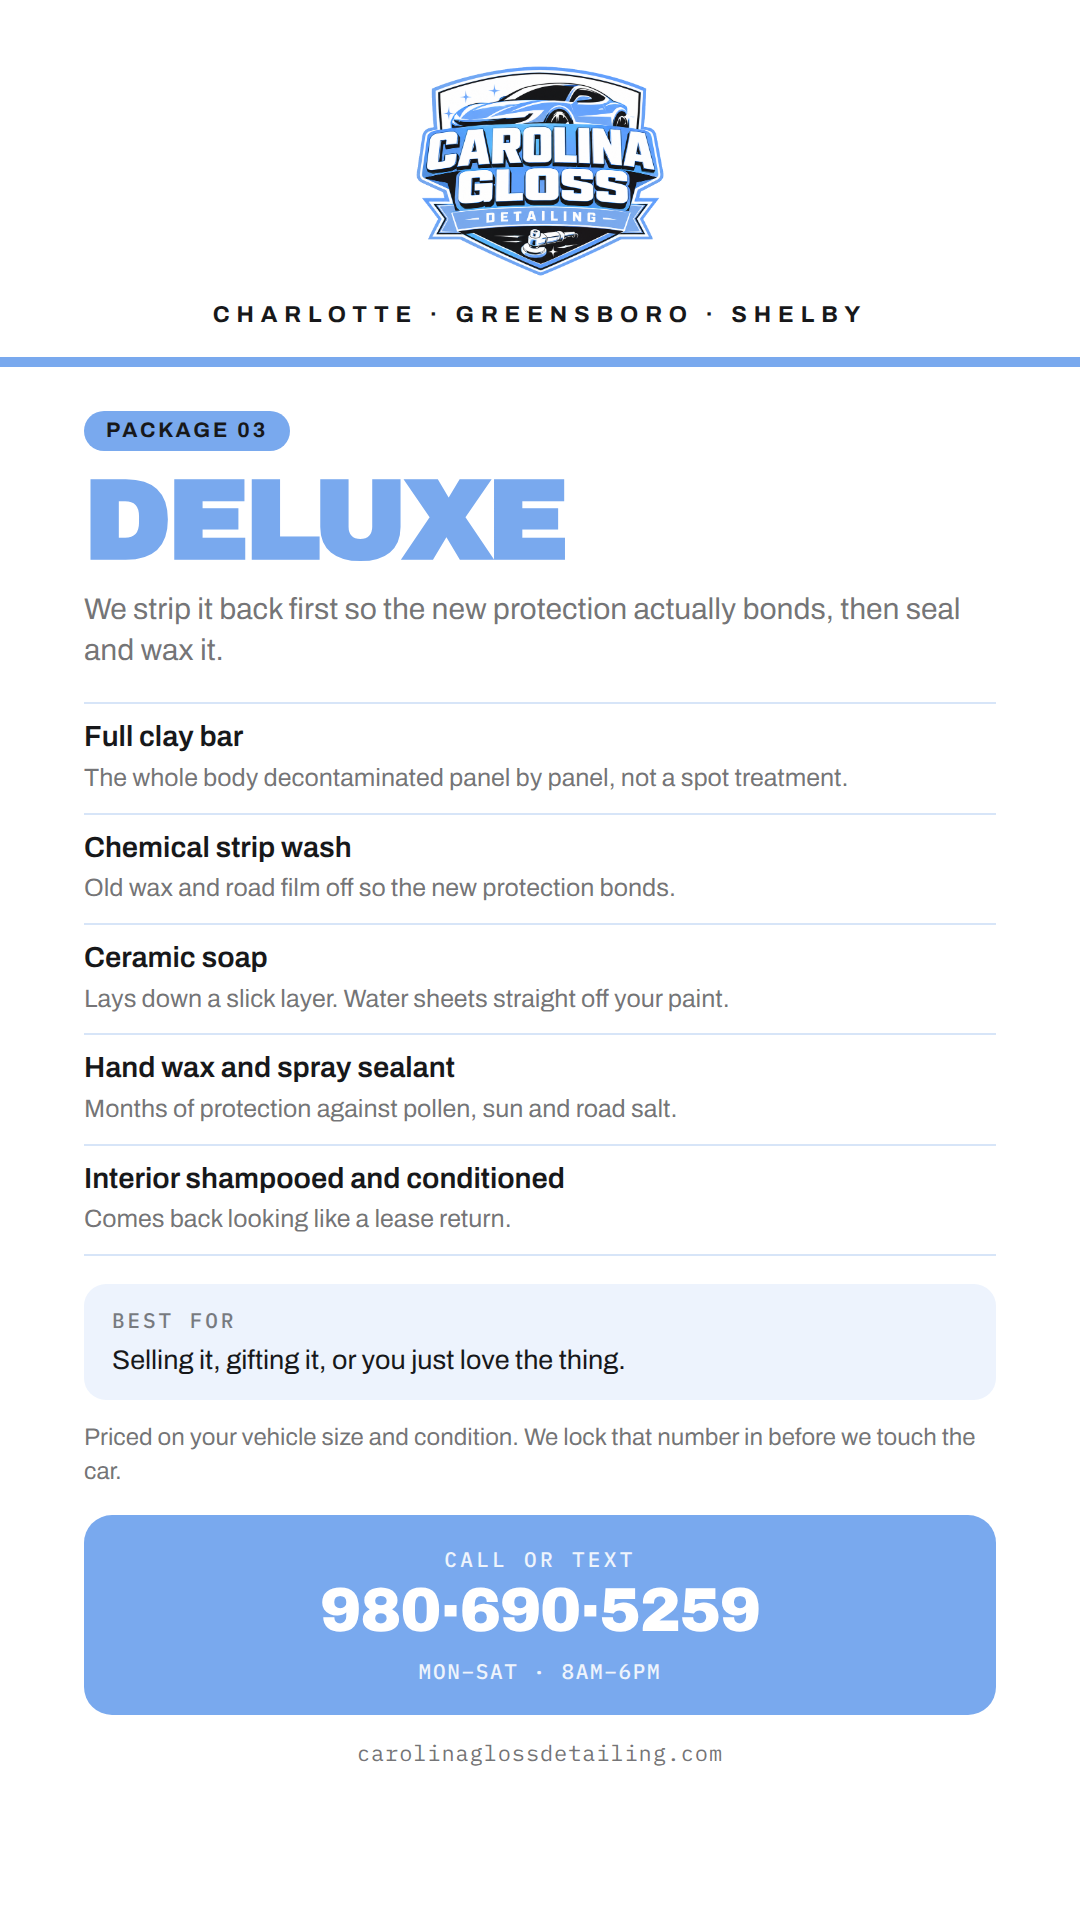
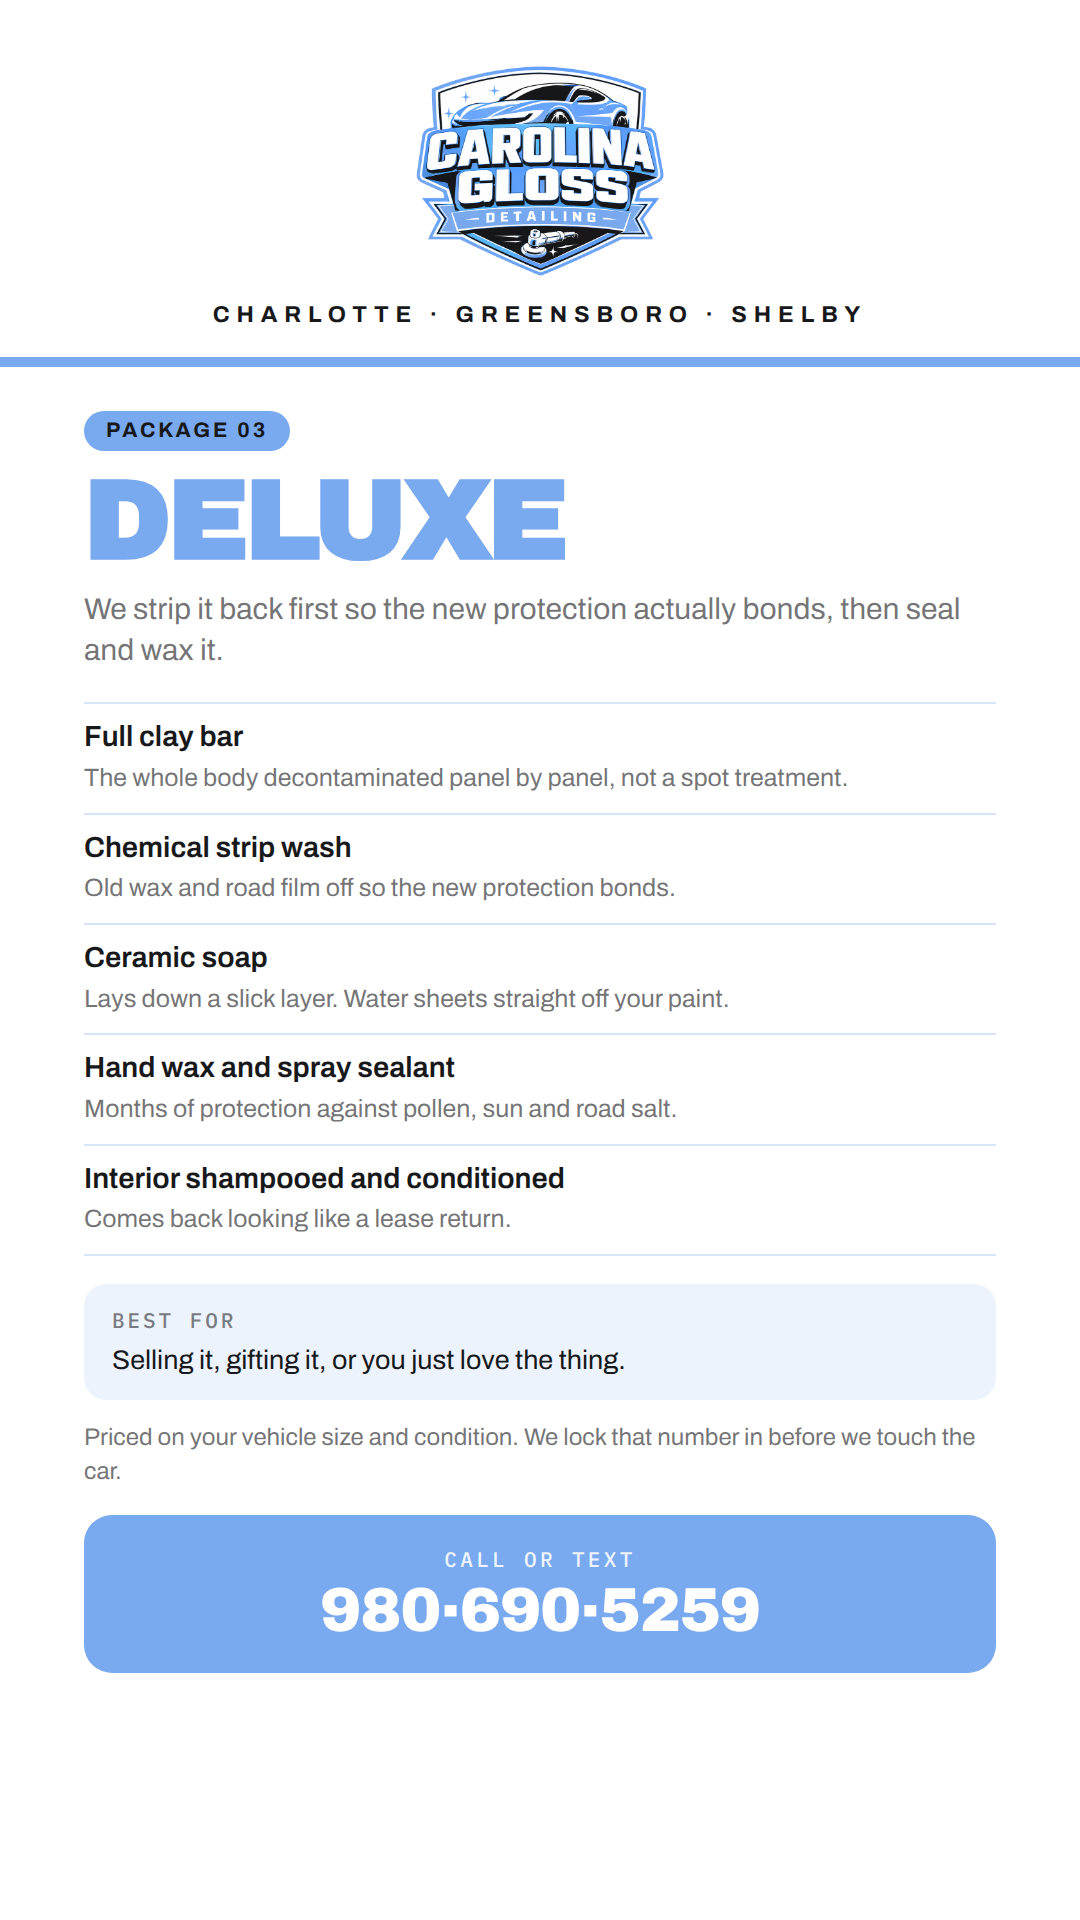
Strip the hours and website lines from the CTA
Availability shifts, so baking Mon-Sat 8am-6pm into the image dates it.
The CTA is now just CALL OR TEXT and the number.

Claude-Session: https://claude.ai/code/session_016b3V5EjCTmSZMCSHy3XdSF

Changed region(s): [[0.0611, 0.8438, 0.9167, 0.9375]]

diff --git a/design/story-highlights/Story Highlights - Services.dc.html b/design/story-highlights/Story Highlights - Services.dc.html
@@ -45,9 +45,7 @@
         <div style="margin-top:26px;background:#79A9EE;border-radius:28px;padding:30px 28px;display:flex;flex-direction:column;align-items:center;text-align:center;">
           <div style="font:500 21px 'IBM Plex Mono',monospace;letter-spacing:0.16em;color:#FFFFFF;opacity:0.88;">CALL OR TEXT</div>
           <div style="margin-top:8px;font-family:'Archivo Black',Helvetica,sans-serif;font-size:62px;line-height:1;letter-spacing:-0.02em;color:#FFFFFF;white-space:nowrap;">980·690·5259</div>
-          <div style="margin-top:14px;font:500 21px 'IBM Plex Mono',monospace;letter-spacing:0.08em;color:#FFFFFF;opacity:0.88;">MON–SAT · 8AM–6PM</div>
         </div>
-        <div style="margin-top:24px;text-align:center;font:400 22px 'IBM Plex Mono',monospace;letter-spacing:0.04em;color:rgba(23,24,26,0.62);">carolinaglossdetailing.com</div>
       </div>
     </section>
   </div>
@@ -77,9 +75,7 @@
         <div style="margin-top:26px;background:#79A9EE;border-radius:28px;padding:30px 28px;display:flex;flex-direction:column;align-items:center;text-align:center;">
           <div style="font:500 21px 'IBM Plex Mono',monospace;letter-spacing:0.16em;color:#FFFFFF;opacity:0.88;">CALL OR TEXT</div>
           <div style="margin-top:8px;font-family:'Archivo Black',Helvetica,sans-serif;font-size:62px;line-height:1;letter-spacing:-0.02em;color:#FFFFFF;white-space:nowrap;">980·690·5259</div>
-          <div style="margin-top:14px;font:500 21px 'IBM Plex Mono',monospace;letter-spacing:0.08em;color:#FFFFFF;opacity:0.88;">MON–SAT · 8AM–6PM</div>
         </div>
-        <div style="margin-top:24px;text-align:center;font:400 22px 'IBM Plex Mono',monospace;letter-spacing:0.04em;color:rgba(23,24,26,0.62);">carolinaglossdetailing.com</div>
       </div>
     </section>
   </div>
@@ -109,9 +105,7 @@
         <div style="margin-top:26px;background:#79A9EE;border-radius:28px;padding:30px 28px;display:flex;flex-direction:column;align-items:center;text-align:center;">
           <div style="font:500 21px 'IBM Plex Mono',monospace;letter-spacing:0.16em;color:#FFFFFF;opacity:0.88;">CALL OR TEXT</div>
           <div style="margin-top:8px;font-family:'Archivo Black',Helvetica,sans-serif;font-size:62px;line-height:1;letter-spacing:-0.02em;color:#FFFFFF;white-space:nowrap;">980·690·5259</div>
-          <div style="margin-top:14px;font:500 21px 'IBM Plex Mono',monospace;letter-spacing:0.08em;color:#FFFFFF;opacity:0.88;">MON–SAT · 8AM–6PM</div>
         </div>
-        <div style="margin-top:24px;text-align:center;font:400 22px 'IBM Plex Mono',monospace;letter-spacing:0.04em;color:rgba(23,24,26,0.62);">carolinaglossdetailing.com</div>
       </div>
     </section>
   </div>

diff --git a/design/story-highlights/build.py b/design/story-highlights/build.py
@@ -23,7 +23,7 @@ TINT = "#EDF3FD"         # BLUE washed into white, for cards
 RULE = "#D7E5F8"         # BLUE washed into white, for dividers
 MUTED = "rgba(23,24,26,0.62)"   # the same black, stepped back
 
-PHONE, HOURS = "980\u00b7690\u00b75259", "MON\u2013SAT \u00b7 8AM\u20136PM"
+PHONE = "980\u00b7690\u00b75259"
 CITIES = "CHARLOTTE \u00b7 GREENSBORO \u00b7 SHELBY"
 PRICE_LINE = ("Priced on your vehicle size and condition. "
               "We lock that number in before we touch the car.")
@@ -129,10 +129,6 @@ h1{{margin:20px 0 0;font-family:'Archivo Black',Helvetica,sans-serif;font-size:1
  color:#FFFFFF;opacity:0.88;}}
 .cta .num{{margin-top:8px;font-family:'Archivo Black',Helvetica,sans-serif;font-size:62px;
  line-height:1;letter-spacing:-0.02em;color:#FFFFFF;white-space:nowrap;}}
-.cta .hrs{{margin-top:14px;font:500 21px 'IBM Plex Mono',monospace;
- letter-spacing:0.08em;color:#FFFFFF;opacity:0.88;}}
-.site{{margin-top:24px;text-align:center;font:400 22px 'IBM Plex Mono',monospace;
- letter-spacing:0.04em;color:{muted};}}
 </style></head><body><div class="frame">
 <div class="head"><img src="{logo}" alt="Carolina Gloss Detailing">
 <div class="cities">{cities}</div></div>
@@ -144,14 +140,12 @@ h1{{margin:20px 0 0;font-family:'Archivo Black',Helvetica,sans-serif;font-size:1
 <div class="rows">{rows}</div>
 <div class="best"><div class="lbl">BEST FOR</div><div class="txt">{best}</div></div>
 <p class="price">{price}</p>
-<div class="cta"><div class="lbl">CALL OR TEXT</div><div class="num">{phone}</div>
-<div class="hrs">{hours}</div></div>
-<div class="site">carolinaglossdetailing.com</div>
+<div class="cta"><div class="lbl">CALL OR TEXT</div><div class="num">{phone}</div></div>
 </div></div></body></html>""".format(
         faces=faces, ink=INK, blue=BLUE, tint=TINT, muted=MUTED,
         logo=logo_uri, cities=CITIES, eyebrow=pkg["eyebrow"], pill=pill,
         title=pkg["title"], sub=pkg["sub"], rows=rows, best=pkg["best"],
-        price=PRICE_LINE, phone=PHONE, hours=HOURS)
+        price=PRICE_LINE, phone=PHONE)
 
 
 def main():
@@ -173,7 +167,7 @@ def main():
             with open(probe, "w") as fh:
                 fh.write(open(html_path).read().replace("</body>", """
 <script>window.addEventListener('load',function(){
- var f=document.querySelector('.frame'),c=document.querySelector('.site');
+ var f=document.querySelector('.frame'),c=document.querySelector('.cta');
  var gap=f.getBoundingClientRect().bottom-c.getBoundingClientRect().bottom;
  var p=document.createElement('pre');p.id='M';
  p.textContent='bottomGap='+Math.round(gap)+' bodyScroll='+document.body.scrollHeight;
@@ -238,16 +232,14 @@ def canvas_section(pkg, idx):
         <div style="margin-top:26px;background:{blue};border-radius:28px;padding:30px 28px;display:flex;flex-direction:column;align-items:center;text-align:center;">
           <div style="font:500 21px 'IBM Plex Mono',monospace;letter-spacing:0.16em;color:#FFFFFF;opacity:0.88;">CALL OR TEXT</div>
           <div style="margin-top:8px;font-family:'Archivo Black',Helvetica,sans-serif;font-size:62px;line-height:1;letter-spacing:-0.02em;color:#FFFFFF;white-space:nowrap;">{phone}</div>
-          <div style="margin-top:14px;font:500 21px 'IBM Plex Mono',monospace;letter-spacing:0.08em;color:#FFFFFF;opacity:0.88;">{hours}</div>
         </div>
-        <div style="margin-top:24px;text-align:center;font:400 22px 'IBM Plex Mono',monospace;letter-spacing:0.04em;color:{muted};">carolinaglossdetailing.com</div>
       </div>
     </section>
   </div>
 """.format(label=pkg["slug"].replace("-", " ").title(), ink=INK, blue=BLUE,
            tint=TINT, muted=MUTED, cities=CITIES, eyebrow=pkg["eyebrow"],
            pill=pill, title=pkg["title"], sub=pkg["sub"], rows="".join(rows),
-           best=pkg["best"], price=PRICE_LINE, phone=PHONE, hours=HOURS)
+           best=pkg["best"], price=PRICE_LINE, phone=PHONE)
 
 
 CANVAS_PROPS = ('{&quot;showLabels&quot;:{&quot;editor&quot;:&quot;boolean&quot;,&quot;default&quot;:true,'

diff --git a/design/story-highlights/COPY.md b/design/story-highlights/COPY.md
@@ -10,8 +10,7 @@ Rendered files live in `out/`. Rebuild with `python3 build.py`
 
 - Header: crest logo on white, `CHARLOTTE · GREENSBORO · SHELBY`, Carolina blue bar
 - Best-for card, price-lock line
-- CTA: `CALL OR TEXT · 980·690·5259 · MON–SAT · 8AM–6PM`
-- Footer: carolinaglossdetailing.com
+- CTA: `CALL OR TEXT` + `980·690·5259`. No hours and no website, so nothing on the image goes stale
 - Price line: "Priced on your vehicle size and condition. We lock that number in before we touch the car."
 
 ## PACKAGE 01 — STANDARD
